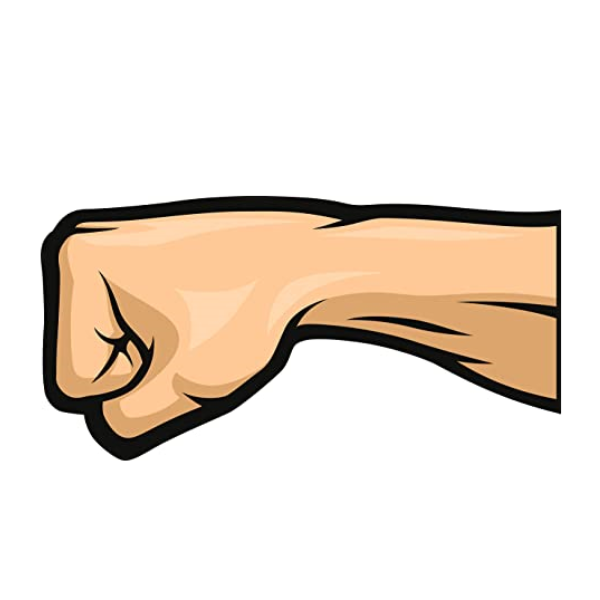
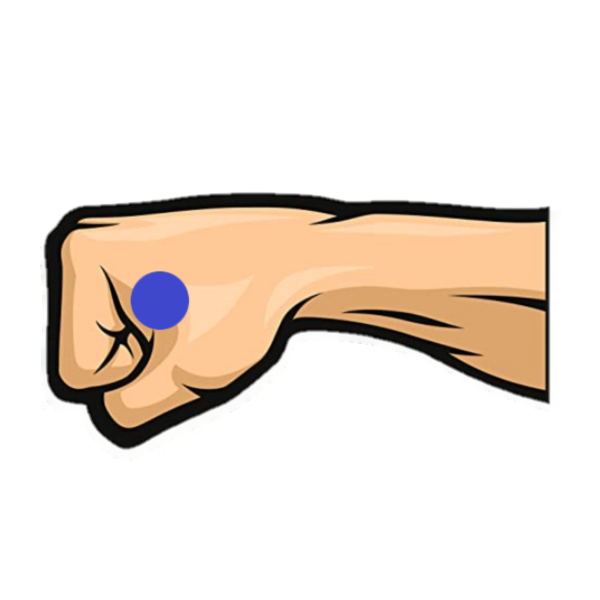
fix q typos

Changed region(s): [[0.06, 0.3, 0.96, 0.78]]

diff --git a/src/pages/Quiz/questions.js b/src/pages/Quiz/questions.js
@@ -87,12 +87,12 @@ export const questions = [
     type: QuestionTypes.MULTIPLE_CHOICE,
     validate: (answer) => answer === DonenessTypes.RARE,
     correctFeedback:
-      "Correct! A medium-rare steak should be tested by connecting the thumb with the middle finger, and then feeling the palm area under your thumb.",
+      "Correct! The customer is always right, it looks like your steak was a little underdone.",
     incorrectFeedback:
-      "Incorrect! A medium-rare steak should be tested by connecting the thumb with the middle finger, and then feeling the palm area under your thumb.",
+      "Incorrect. The customer is always right, it looks like your steak was actually rare.",
     qInfo: {
       setup:
-        "After doing the palm test, it seems like your steak feels medium-rare. You send it off to the person who ordered it, but it’s returned to the kitchen with complaints that the steak isn’t done like they wanted. The cross-cut of the steak looks like this:",
+        "After conducting the palm test, it seems like your steak feels medium-rare. You send it off to the person who ordered it, but it’s returned to the kitchen with complaints that the steak isn’t done like they wanted. The cross-cut of the steak looks like this:",
       prompt: "From this image, can you tell how done the steak is?",
       img: steakrare,
     },
@@ -103,7 +103,7 @@ export const questions = [
     scenario: 2,
     part: 1,
     type: QuestionTypes.NUMBER,
-    validate: (answer) => answer >= 0 && answer <= 2.5,
+    validate: (answer) => answer >= 1.5 && answer <= 3,
     correctFeedback:
       "Correct! A rare steak should be seared for 1-2 minutes on each side on medium-high.",
     incorrectFeedback:
@@ -143,12 +143,67 @@ export const questions = [
     correctFeedback:
       "Correct! The customer is always right, it looks like your steak was a little overdone",
     incorrectFeedback:
-      "Incorrect. The customer is always right, it looks like your steak was a little overdone.",
+      "Incorrect. The customer is always right, it looks like your steak was actually medium.",
     qInfo: {
       setup:
-        "After doing the palm test, it seems like your steak feels rare. You send it off to the person who ordered it, but it’s returned to the kitchen with complaints that the steak isn’t done like they wanted. The cross-cut of the steak looks like this:",
+        "After conducting the face test, it seems like your steak feels rare. You send it off to the person who ordered it, but it’s returned to the kitchen with complaints that the steak isn’t done like they wanted. The cross-cut of the steak looks like this:",
       prompt: "From this image, can you tell how done the steak is?",
       img: steakmedium,
+    },
+  },
+  {
+    id: "s3p1",
+    name: "Scenario 3 Part 1",
+    scenario: 3,
+    part: 1,
+    type: QuestionTypes.NUMBER,
+    validate: (answer) => answer >= 6 && answer <= 8.5,
+    correctFeedback:
+      "Correct! A well-done steak should be seared for 6.5-8 minutes on each side on medium-high.",
+    incorrectFeedback:
+      "Incorrect. A well-done steak should be seared for 6.5-8 minutes on each side on medium-high.",
+    qInfo: {
+      setup:
+        "You receive an order for a well-done ribeye. You’re given a 1 inch thick 8oz ribeye.",
+      prompt: "How long should you sear each side of the steak?",
+      suffix: "minutes",
+    },
+  },
+  {
+    id: "s3p2",
+    name: "Scenario 3 Part 2",
+    scenario: 3,
+    part: 2,
+    type: QuestionTypes.TACTILE,
+    validate: (fistType) => FistTypes[fistType] === DonenessTypes.WELL_DONE,
+    correctFeedback:
+      "Correct! A well-done steak should be tested by comparing the feel of the steak with the area between the thumb and index fingers when tightly clenching your fist.",
+    incorrectFeedback:
+      "Incorrect. A well-done steak should be tested by comparing the feel of the steak with the area between the thumb and index fingers when tightly clenching your fist.",
+    qInfo: {
+      setup:
+        "After searing, you have a nice golden brown steak. Congrats!\nIt looks nice on the outside, but you want to test if the steak really is well-done. You don’t want to puncture the steak with a thermometer, so you use the fist test.",
+      prompt:
+        "Choose how much to clench your fist before feeling the highlighted area.",
+      media: TactileTypes.FIST,
+    },
+  },
+  {
+    id: "s3p3",
+    name: "Scenario 3 Part 3",
+    scenario: 3,
+    part: 3,
+    type: QuestionTypes.MULTIPLE_CHOICE,
+    validate: (answer) => answer === DonenessTypes.MEDIUM_RARE,
+    correctFeedback:
+      "Correct! The customer is always right, it looks like your steak was a little underdone",
+    incorrectFeedback:
+      "Incorrect. The customer is always right, it looks like your steak was actually medium-rare.",
+    qInfo: {
+      setup:
+        "After conducting the fist test, it seems like your steak feels well-done. You send it off to the person who ordered it, but it’s returned to the kitchen with complaints that the steak isn’t done like they wanted. The cross-cut of the steak looks like this:",
+      prompt: "From this image, can you tell how done the steak is?",
+      img: steakmediumrare,
     },
   },
 ];

diff --git a/src/pages/Quiz/Q2.component.js b/src/pages/Quiz/Q2.component.js
@@ -1,10 +1,11 @@
-import React from "react";
+import React, { Fragment, useState } from "react";
 import styled from "styled-components";
 
 import { Button } from "../../components/Button.component";
 import { Palm, Face } from "../../components/HoverMedia.component";
-
-import { TactileTypes } from "./questions";
+import fistpng from "../../media/fist.png";
+import { TactileTypes, FistTypes } from "./questions";
+import { handleButtonColor } from "../../helper";
 
 const Container = styled.div`
   width: 100%;
@@ -34,8 +35,16 @@ const Container = styled.div`
     .wrapper {
       box-sizing: border-box;
       margin: 0 auto 2em auto;
-      
+
+      img {
+        height: 250px;
+      }
       /* height: 400px; */
+    }
+    .choices {
+      display: flex;
+      justify-content: center;
+      margin: 1em 0 2em 0;
     }
   }
 
@@ -51,14 +60,55 @@ const Container = styled.div`
 
 export default ({ qInfo, hasSubmitted, handleSubmit, isCorrect }) => {
   const { setup, prompt, media } = qInfo;
+  const [fistValue, setFistValue] = useState(null);
 
   const renderType = () => {
     if (media === TactileTypes.PALM) {
-      return <Palm hasSubmitted={hasSubmitted} handleSubmit={handleSubmit} isCorrect={isCorrect}/>;
+      return (
+        <Palm
+          hasSubmitted={hasSubmitted}
+          handleSubmit={handleSubmit}
+          isCorrect={isCorrect}
+        />
+      );
     } else if (media === TactileTypes.FACE) {
-      return <Face hasSubmitted={hasSubmitted} handleSubmit={handleSubmit} isCorrect={isCorrect} />;
-    } else if (media ===TactileTypes.FIST) {
-      return; // implement
+      return (
+        <Face
+          hasSubmitted={hasSubmitted}
+          handleSubmit={handleSubmit}
+          isCorrect={isCorrect}
+        />
+      );
+    } else if (media === TactileTypes.FIST) {
+      return (
+        <Fragment>
+          <img src={fistpng} alt="what-steak"></img>
+          <div className="choices">
+            {Object.keys(FistTypes).map((fist, i) => (
+              <Button
+                onClick={(e) => {
+                  e.preventDefault();
+                  if (hasSubmitted) {
+                    return;
+                  }
+                  setFistValue(fist);
+                  handleSubmit(fist);
+                }}
+                disabled={hasSubmitted}
+                type={handleButtonColor(
+                  fist,
+                  fistValue,
+                  hasSubmitted,
+                  isCorrect
+                )}
+                key={i}
+              >
+                {fist.replace("_", "-")}
+              </Button>
+            ))}
+          </div>
+        </Fragment>
+      );
     }
   };
 
@@ -69,18 +119,6 @@ export default ({ qInfo, hasSubmitted, handleSubmit, isCorrect }) => {
       <div className="input">
         <div className="wrapper">{renderType()}</div>
       </div>
-      {/* {!hasSubmitted && (
-        <div className="buttons">
-          <Button
-            onClick={(e) => {
-              e.preventDefault();
-              handleSubmit(value);
-            }}
-          >
-            Submit
-          </Button>
-        </div>
-      )} */}
     </Container>
   );
 };

diff --git a/src/pages/Quiz/Q3.component.js b/src/pages/Quiz/Q3.component.js
@@ -2,9 +2,8 @@ import React, { useState } from "react";
 import styled from "styled-components";
 
 import { Button } from "../../components/Button.component";
-import { Palm, Face } from "../../components/HoverMedia.component";
-
 import { DonenessTypes } from "./questions";
+import { handleButtonColor } from "../../helper";
 
 const Container = styled.div`
   width: 100%;
@@ -73,19 +72,6 @@ export default ({ qInfo, hasSubmitted, handleSubmit, isCorrect }) => {
     handleSubmit(val);
   };
 
-  const handleButtonColor = (val) => {
-    console.log(hasSubmitted, isCorrect, value);
-    if (hasSubmitted) {
-      if (val === value) {
-        return isCorrect ? "success" : "failure";
-      } else {
-        return "disabled";
-      }
-    } else {
-      return "choice";
-    }
-  };
-
   return (
     <Container>
       <div className="setup">{setup}</div>
@@ -99,7 +85,7 @@ export default ({ qInfo, hasSubmitted, handleSubmit, isCorrect }) => {
             <Button
               onClick={(e) => handleClick(e, done)}
               disabled={hasSubmitted}
-              type={handleButtonColor(done)}
+              type={handleButtonColor(done, value, hasSubmitted, isCorrect)}
               key={i}
             >
               {done.replace("_", "-")}

diff --git a/src/helper.js b/src/helper.js
@@ -67,3 +67,15 @@ export const getNextQuestionPageRoute = () => {
     }
   }
 };
+
+export const handleButtonColor = (val, refVal, hasSubmitted, isCorrect) => {
+  if (hasSubmitted) {
+    if (val === refVal) {
+      return isCorrect ? "success" : "failure";
+    } else {
+      return "disabled";
+    }
+  } else {
+    return "choice";
+  }
+}

diff --git a/src/components/HoverMedia.component.js b/src/components/HoverMedia.component.js
@@ -10,8 +10,6 @@ import palmmediumrare from "../media/palm-medium-rare.png";
 import palmmedium from "../media/palm-medium.png";
 import palmwelldone from "../media/palm-well-done.png";
 
-import fistpng from "../media/fist.png";
-
 const ImageWrapper = styled.div`
   /* position: absolute; */
   margin: 0 auto;
